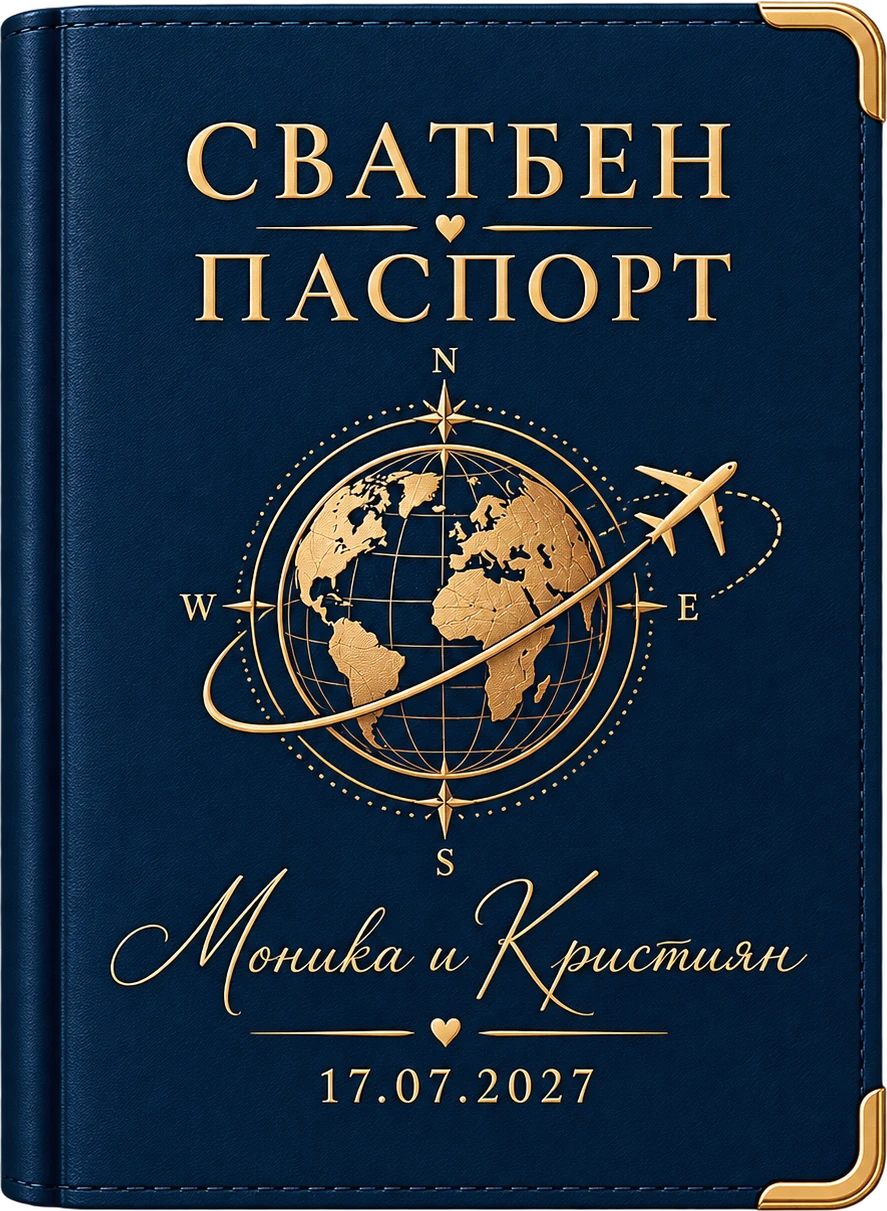
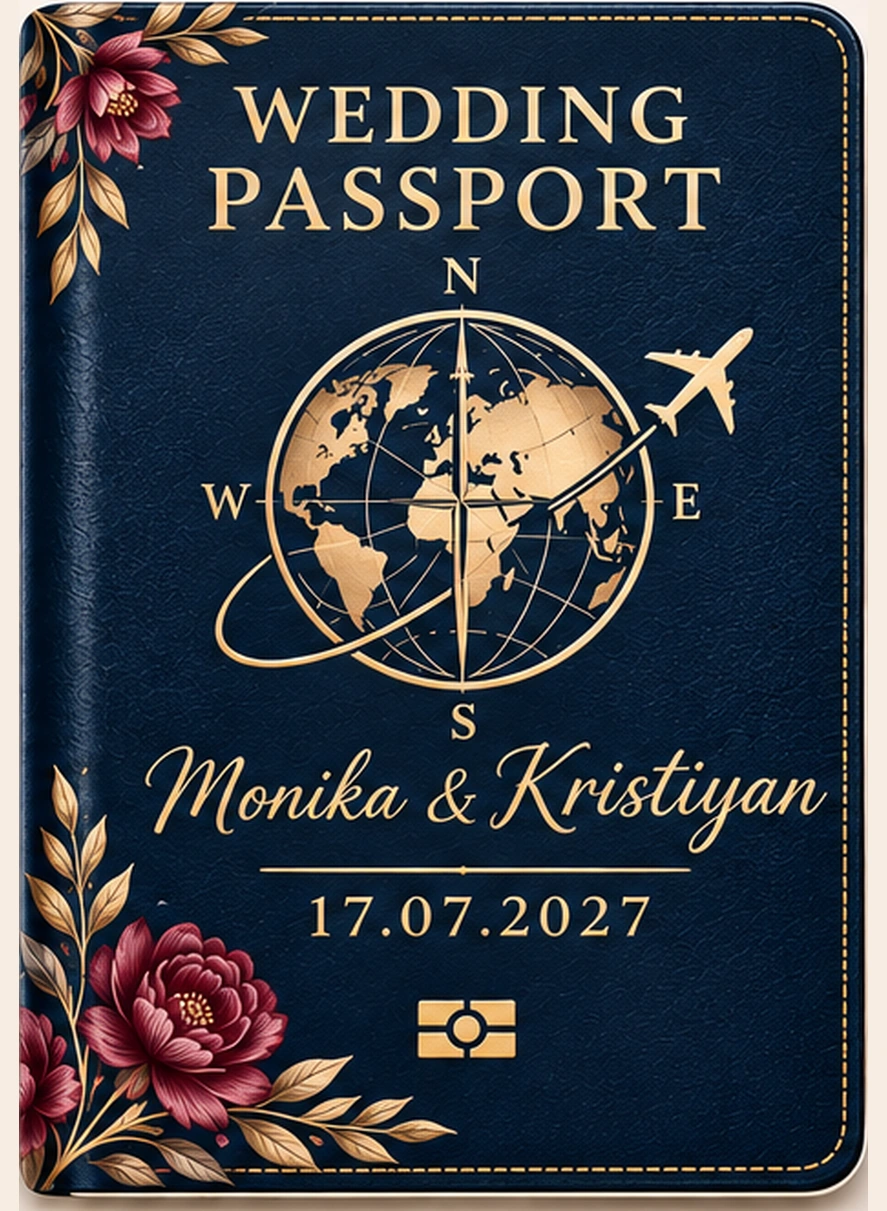
Add files via upload

diff --git a/index.html b/index.html
@@ -3,11 +3,11 @@
 <head>
 <meta charset="utf-8">
 <meta name="viewport" content="width=device-width, initial-scale=1, viewport-fit=cover">
-<meta name="description" content="Wedding invitation for Monika and Kristian – 17 July 2027, Sofia">
-<meta property="og:title" content="Monika & Kristian – Wedding Invitation">
-<meta property="og:description" content="17 July 2027 · Sofia. Open the invitation!">
+<meta name="description" content="Wedding invitation for Monika and Kristiyan – 17 July 2027, Sofia">
+<meta property="og:title" content="Monika & Kristiyan – Wedding Invitation">
+<meta property="og:description" content="17 July 2027 · Sofia. Open your invitation!">
 <style>:root{padding-top:env(safe-area-inset-top,0px);padding-bottom:env(safe-area-inset-bottom,0px);box-sizing:border-box}body{margin:0}img{max-width:100%}[hidden]{display:none!important}</style>
-<title>Monika and Kristian</title>
+<title>Monika and Kristiyan</title>
 <meta name="claude:viewport-fit-sides" content="cover">
 <link rel="preconnect" href="https://fonts.googleapis.com">
 <link rel="stylesheet" href="https://fonts.googleapis.com/css2?family=Cormorant+Garamond:ital,wght@0,500;1,500;1,600&family=Manrope:wght@500;600&display=swap">
@@ -121,7 +121,7 @@ body{
   </div>
 
   <header class="head" id="head">
-    <h1>Monika &amp; Kristian</h1>
+    <h1>Monika &amp; Kristiyan</h1>
     <p>17 · 07 · 2027 &nbsp;·&nbsp; Sofia</p>
   </header>
 
@@ -130,15 +130,15 @@ body{
       <div class="fill" id="oFlap"><img src="o_flap.webp" alt=""></div>
       <img src="o_back.webp" alt="">
     </div>
-    <div class="L" id="ticket"><img src="ticket.webp" alt="Boarding pass: church ceremony at 4:00 PM, St. Sophia Church; reception at 6:00 PM, Laura Restaurant, NDK. RSVP by 15 June 2027 at 0897 775 642." class="shadowed"></div>
+    <div class="L" id="ticket"><img src="ticket.webp" alt="Бордна карта: църковен ритуал в 16:00, храм „Света Sofia“; тържество в 18:00, ресторант „Лаура“, НДК. Потвърждение до 15.06.2027 на 0897 775 642." class="shadowed"></div>
     <div class="L" id="pp">
-      <div class="fill" id="pCover"><img src="p_closed.webp" alt="Wedding Passport" class="shadowed"></div>
+      <div class="fill" id="pCover"><img src="p_closed.webp" alt="Wedding passport" class="shadowed"></div>
       <div id="sheen"></div>
     </div>
     <div class="L" id="oFront"><img src="o_front.webp" alt=""></div>
     <div class="L" id="spread">
-      <div id="pBot"><img src="p_bottom.webp" alt="Паспорт: младоженци Monika and Kristian, кумове сем. Атанасови, 17.07.2027" class="shadowed"></div>
-      <div id="pTop"><img src="p_top.webp" alt="Two people in love, one one-way flight. We joyfully invite you to share the day we say “I do”!" class="shadowed"></div>
+      <div id="pBot"><img src="p_bottom.webp" alt="Паспорт: младоженци Monika and Kristiyan, кумове сем. Атанасови, 17.07.2027" class="shadowed"></div>
+      <div id="pTop"><img src="p_top.webp" alt="Two people in love, one flight with no return ticket. Join us on the day we say I do!" class="shadowed"></div>
     </div>
     <div class="L shadowed" id="envC">
       <img id="cBody" src="c_body.webp" alt="">
@@ -165,10 +165,10 @@ body{
         </button>
         <button class="btn primary" id="replay" type="button">
           <svg viewBox="0 0 24 24" fill="none" stroke="currentColor" stroke-width="2" stroke-linecap="round" stroke-linejoin="round"><path d="M3 12a9 9 0 1 0 3-6.7L3 8"/><path d="M3 3v5h5"/></svg>
-          Open again
+          Start again
         </button>
       </div>
-      <span class="rot">Turn your phone sideways for larger text</span>
+      <span class="rot">Rotate your phone for larger text</span>
     </div>
   </div>
   <div class="loader" id="loader">Preparing your invitation…</div>
@@ -183,7 +183,7 @@ body{
   const stage = $('stage'), app = $('app'), head = $('head');
   const RM = matchMedia('(prefers-reduced-motion: reduce)').matches;
   const EASE = { in:'cubic-bezier(.55,0,.8,.35)', out:'cubic-bezier(.22,1,.36,1)', io:'cubic-bezier(.65,0,.35,1)', back:'cubic-bezier(.3,1.35,.55,1)' };
-  const HINTS = ['Tap the seal to open','Tap to take out the passport','Tap the passport to open it','Tap to collect your boarding pass',''];
+  const HINTS = ['Tap the seal to open','Tap to take out the passport','Tap the passport to open','Tap to collect your boarding pass',''];
   const LABELS = ['Open the envelope','Take out the passport','Open the passport','Collect your boarding pass',''];
 
   // image proportions (cropped layers)
